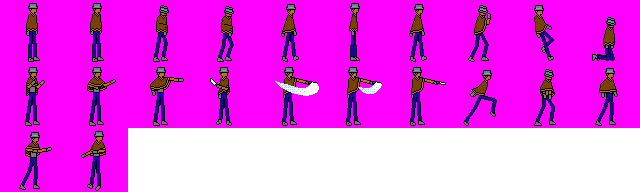
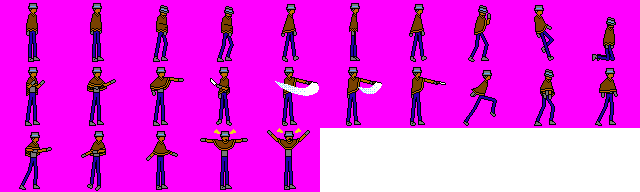
Created sprites for the Provoke assist.

Changed region(s): [[0.1875, 0.6562, 0.5, 1.0]]

diff --git a/src/combat/actions/provoke.cpp b/src/combat/actions/provoke.cpp
@@ -3,6 +3,7 @@
 #include "base/combatant.h"
 #include "base/combat_action.h"
 #include "base/enemy.h"
+#include "utils/animation.h"
 #include "combat/combatants/party/erwin.h"
 #include "combat/combatants/party/mary.h"
 #include "combat/actions/provoke.h"
@@ -16,6 +17,8 @@ Provoke::Provoke(Erwin *user):
   name = "Provoke";
   this->user = user;
   this->atlas = &user->atlas;
+
+  user->intangible = true;
 }
 
 Provoke::~Provoke() {
@@ -62,6 +65,8 @@ void Provoke::drawEnemyAggro() {
 }
 
 void Provoke::windUp() {
+  user->sprite = &atlas->sprites[22];
+
   bool end_state = state_clock == 1.0;
   if (end_state) {
     drawEnemyAggro();
@@ -69,9 +74,16 @@ void Provoke::windUp() {
 }
 
 void Provoke::action() {
-
+  SpriteAnimation::play(user->animation, &anim_provoke, true);
+  user->sprite = &atlas->sprites[*user->animation->current];
 }
 
 void Provoke::endLag() {
+  SpriteAnimation::play(user->animation, &anim_end, true);
+  user->sprite = &atlas->sprites[*user->animation->current];
 
+  bool end_state = state_clock = 1.0;
+  if (end_state) {
+    user->intangible = false;
+  }
 }

diff --git a/include/combat/actions/provoke.h b/include/combat/actions/provoke.h
@@ -1,5 +1,6 @@
 #pragma once
 #include "base/combat_action.h"
+#include "data/animation.h"
 #include "combat/combatants/party/erwin.h"
 #include "system/sprite_atlas.h"
 
@@ -16,5 +17,8 @@ public:
   void endLag() override;
 private:
   Erwin *user;
+
   SpriteAtlas *atlas;
+  Animation anim_provoke = {{23, 24}, 0.15};
+  Animation anim_end = {{23, 22}, 0.10};
 };
